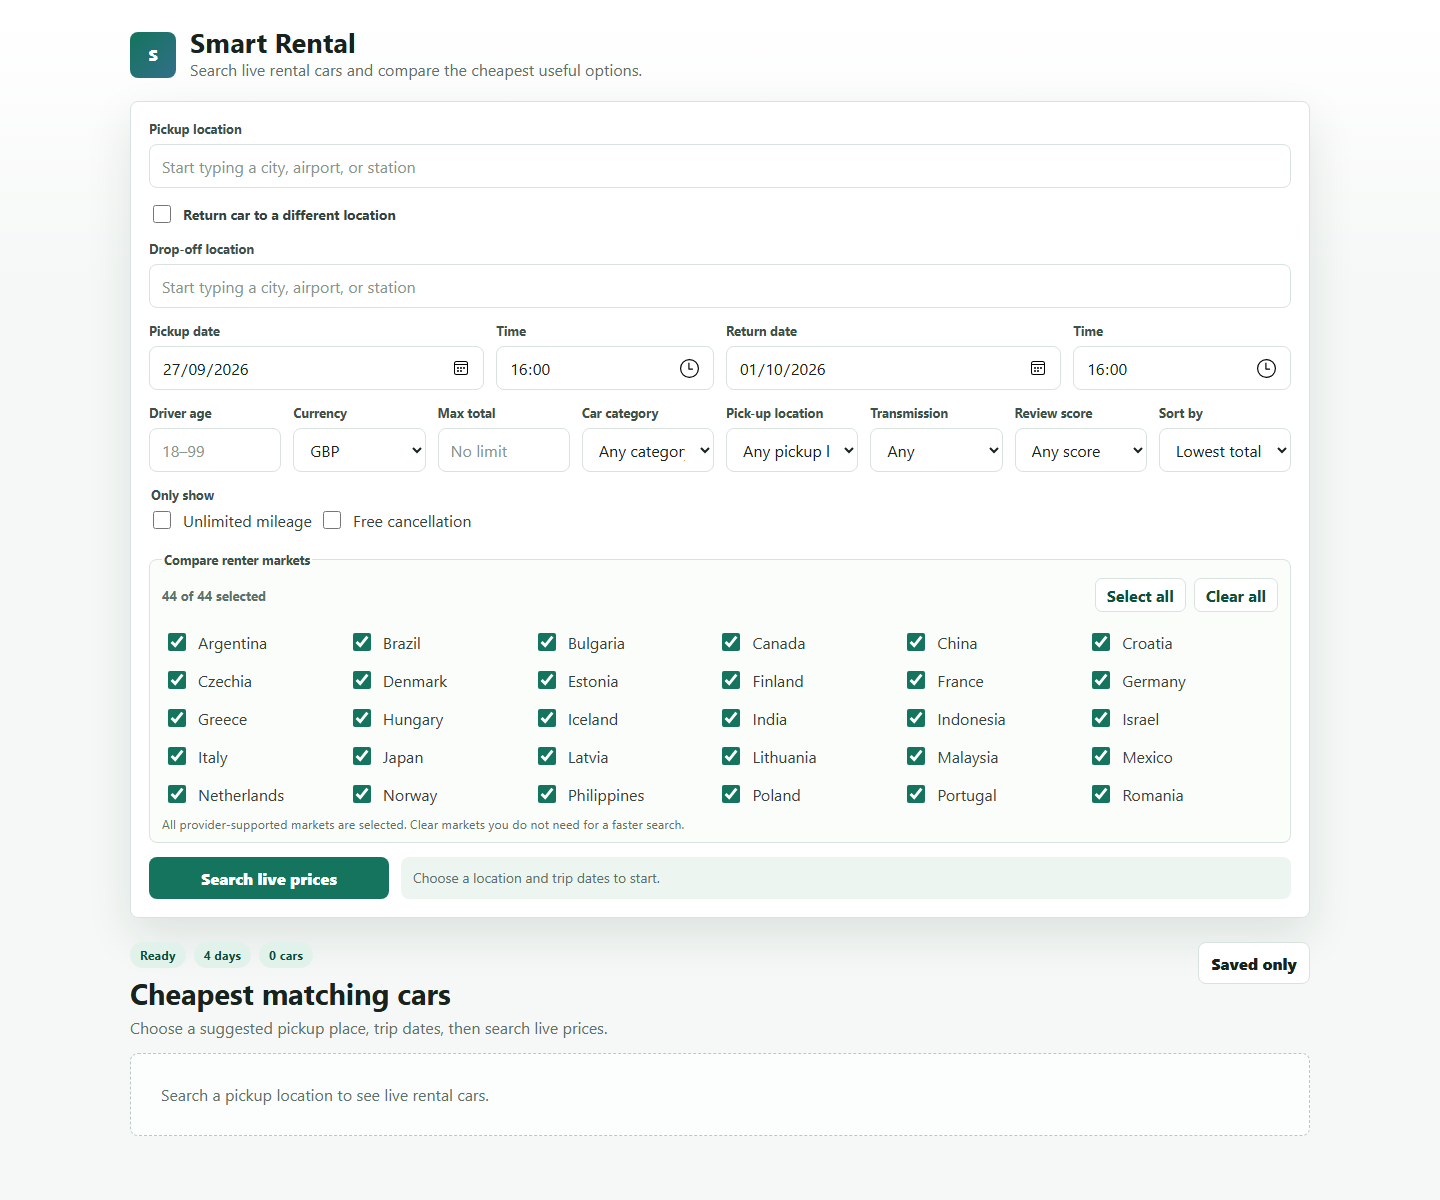
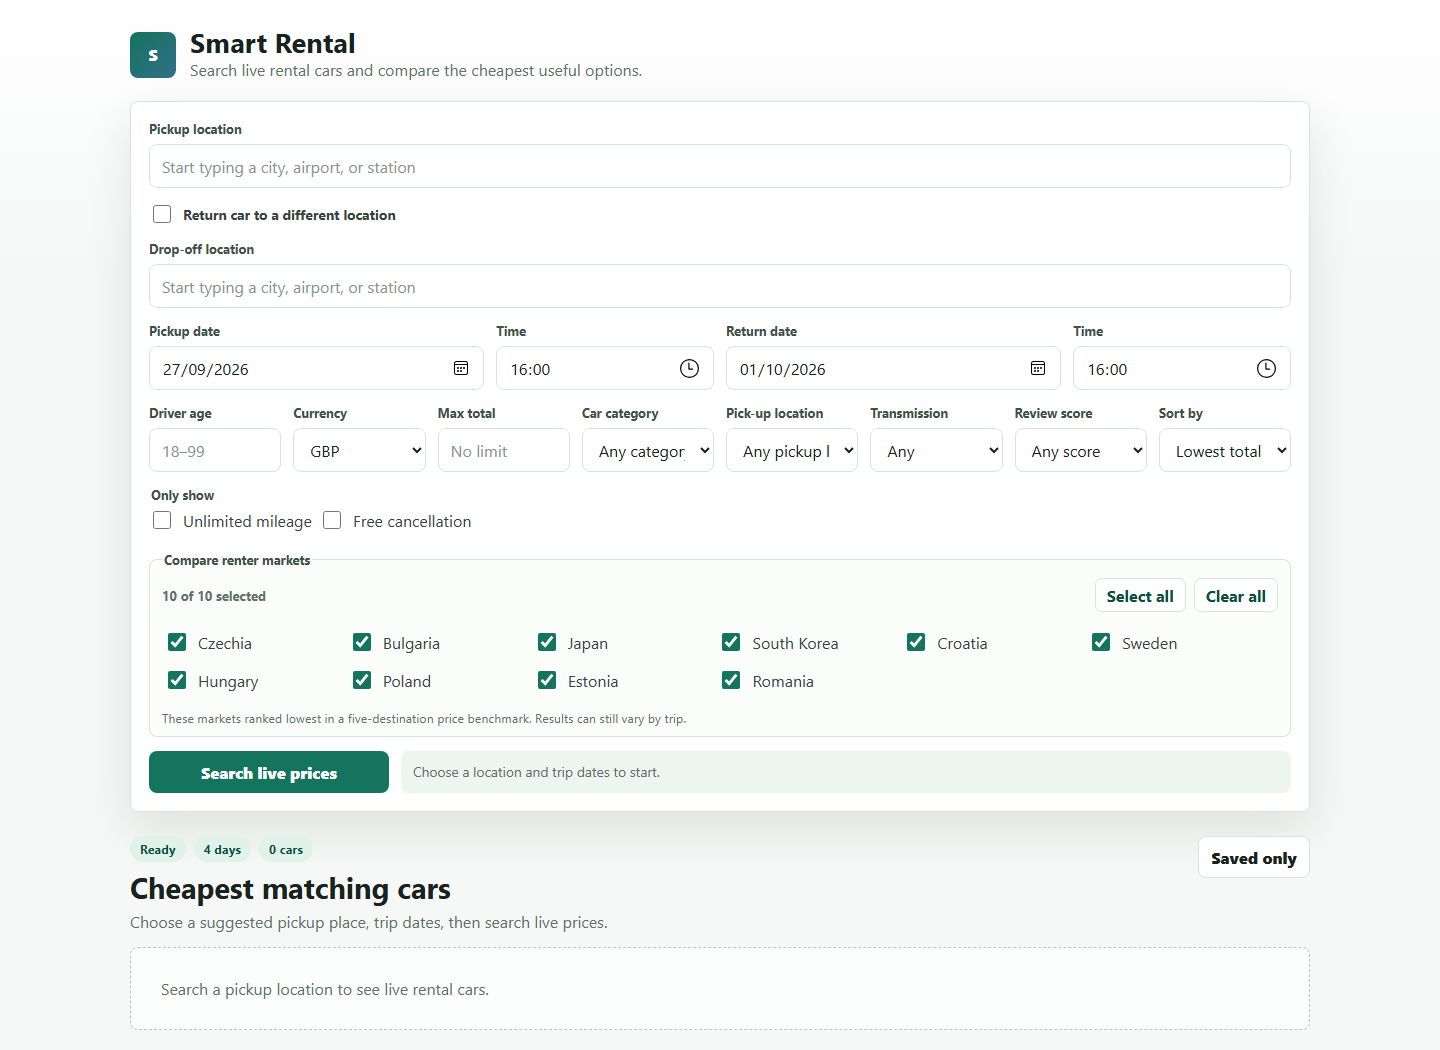
Keep the ten cheapest renter markets

diff --git a/index.html b/index.html
@@ -153,57 +153,23 @@
           <fieldset class="country-group">
             <legend>Compare renter markets</legend>
             <div class="market-toolbar">
-              <span id="marketSelectionCount">44 of 44 selected</span>
+              <span id="marketSelectionCount">10 of 10 selected</span>
               <button id="selectAllMarketsButton" class="market-action" type="button">Select all</button>
               <button id="clearAllMarketsButton" class="market-action" type="button">Clear all</button>
             </div>
             <div class="country-options">
-              <label><input class="countryInput" type="checkbox" value="ar" checked> Argentina</label>
-              <label><input class="countryInput" type="checkbox" value="br" checked> Brazil</label>
-              <label><input class="countryInput" type="checkbox" value="bg" checked> Bulgaria</label>
-              <label><input class="countryInput" type="checkbox" value="ca" checked> Canada</label>
-              <label><input class="countryInput" type="checkbox" value="cn" checked> China</label>
-              <label><input class="countryInput" type="checkbox" value="hr" checked> Croatia</label>
               <label><input class="countryInput" type="checkbox" value="cz" checked> Czechia</label>
-              <label><input class="countryInput" type="checkbox" value="dk" checked> Denmark</label>
-              <label><input class="countryInput" type="checkbox" value="ee" checked> Estonia</label>
-              <label><input class="countryInput" type="checkbox" value="fi" checked> Finland</label>
-              <label><input class="countryInput" type="checkbox" value="fr" checked> France</label>
-              <label><input class="countryInput" type="checkbox" value="de" checked> Germany</label>
-              <label><input class="countryInput" type="checkbox" value="gr" checked> Greece</label>
-              <label><input class="countryInput" type="checkbox" value="hu" checked> Hungary</label>
-              <label><input class="countryInput" type="checkbox" value="is" checked> Iceland</label>
-              <label><input class="countryInput" type="checkbox" value="in" checked> India</label>
-              <label><input class="countryInput" type="checkbox" value="id" checked> Indonesia</label>
-              <label><input class="countryInput" type="checkbox" value="il" checked> Israel</label>
-              <label><input class="countryInput" type="checkbox" value="it" checked> Italy</label>
+              <label><input class="countryInput" type="checkbox" value="bg" checked> Bulgaria</label>
               <label><input class="countryInput" type="checkbox" value="jp" checked> Japan</label>
-              <label><input class="countryInput" type="checkbox" value="lv" checked> Latvia</label>
-              <label><input class="countryInput" type="checkbox" value="lt" checked> Lithuania</label>
-              <label><input class="countryInput" type="checkbox" value="my" checked> Malaysia</label>
-              <label><input class="countryInput" type="checkbox" value="mx" checked> Mexico</label>
-              <label><input class="countryInput" type="checkbox" value="nl" checked> Netherlands</label>
-              <label><input class="countryInput" type="checkbox" value="no" checked> Norway</label>
-              <label><input class="countryInput" type="checkbox" value="ph" checked> Philippines</label>
-              <label><input class="countryInput" type="checkbox" value="pl" checked> Poland</label>
-              <label><input class="countryInput" type="checkbox" value="pt" checked> Portugal</label>
-              <label><input class="countryInput" type="checkbox" value="ro" checked> Romania</label>
-              <label><input class="countryInput" type="checkbox" value="ru" checked> Russia</label>
-              <label><input class="countryInput" type="checkbox" value="sa" checked> Saudi Arabia</label>
-              <label><input class="countryInput" type="checkbox" value="rs" checked> Serbia</label>
-              <label><input class="countryInput" type="checkbox" value="sk" checked> Slovakia</label>
-              <label><input class="countryInput" type="checkbox" value="si" checked> Slovenia</label>
               <label><input class="countryInput" type="checkbox" value="kr" checked> South Korea</label>
-              <label><input class="countryInput" type="checkbox" value="es" checked> Spain</label>
+              <label><input class="countryInput" type="checkbox" value="hr" checked> Croatia</label>
               <label><input class="countryInput" type="checkbox" value="se" checked> Sweden</label>
-              <label><input class="countryInput" type="checkbox" value="th" checked> Thailand</label>
-              <label><input class="countryInput" type="checkbox" value="tr" checked> Türkiye</label>
-              <label><input class="countryInput" type="checkbox" value="gb" checked> UK</label>
-              <label><input class="countryInput" type="checkbox" value="ua" checked> Ukraine</label>
-              <label><input class="countryInput" type="checkbox" value="us" checked> US</label>
-              <label><input class="countryInput" type="checkbox" value="vn" checked> Vietnam</label>
+              <label><input class="countryInput" type="checkbox" value="hu" checked> Hungary</label>
+              <label><input class="countryInput" type="checkbox" value="pl" checked> Poland</label>
+              <label><input class="countryInput" type="checkbox" value="ee" checked> Estonia</label>
+              <label><input class="countryInput" type="checkbox" value="ro" checked> Romania</label>
             </div>
-            <p class="market-note">All provider-supported markets are selected. Clear markets you do not need for a faster search.</p>
+            <p class="market-note">These markets ranked lowest in a five-destination price benchmark. Results can still vary by trip.</p>
           </fieldset>
 
           <div class="search-actions">

diff --git a/app.js b/app.js
@@ -40,7 +40,7 @@ const elements = {
   detailClose: document.querySelector("#detailCloseButton")
 };
 
-const maxRenterMarkets = 44;
+const maxRenterMarkets = 10;
 
 const state = {
   cars: [],
@@ -760,49 +760,17 @@ function formatCountry(value) {
   const labels = {
     uk: "UK",
     gb: "UK",
-    us: "US",
-    ar: "Argentina",
     bg: "Bulgaria",
-    br: "Brazil",
-    ca: "Canada",
-    cn: "China",
     cz: "Czechia",
-    de: "Germany",
-    dk: "Denmark",
     ee: "Estonia",
-    fi: "Finland",
-    fr: "France",
-    gr: "Greece",
     hr: "Croatia",
     hu: "Hungary",
-    id: "Indonesia",
-    il: "Israel",
-    in: "India",
-    is: "Iceland",
-    it: "Italy",
     jp: "Japan",
     kr: "South Korea",
-    lt: "Lithuania",
-    lv: "Latvia",
-    mx: "Mexico",
-    my: "Malaysia",
-    nl: "Netherlands",
-    no: "Norway",
-    ph: "Philippines",
     pl: "Poland",
-    pt: "Portugal",
     ro: "Romania",
-    rs: "Serbia",
-    ru: "Russia",
-    sa: "Saudi Arabia",
     se: "Sweden",
-    si: "Slovenia",
-    sk: "Slovakia",
-    es: "Spain",
-    th: "Thailand",
-    tr: "Türkiye",
-    ua: "Ukraine",
-    vn: "Vietnam"
+    us: "US"
   };
 
   return labels[String(value || "").toLowerCase()] || String(value || "").toUpperCase() || "Default";

diff --git a/server.test.js b/server.test.js
@@ -100,10 +100,7 @@ test("serves the app and validates search requests locally", async (context) => 
   }
   assert.match(pageHtml, /id="driverAgeInput"[^>]*required/);
   const renterMarkets = [
-    "ar", "br", "bg", "ca", "cn", "hr", "cz", "dk", "ee", "fi", "fr",
-    "de", "gr", "hu", "is", "in", "id", "il", "it", "jp", "lv", "lt",
-    "my", "mx", "nl", "no", "ph", "pl", "pt", "ro", "ru", "sa", "rs",
-    "sk", "si", "kr", "es", "se", "th", "tr", "gb", "ua", "us", "vn"
+    "cz", "bg", "jp", "kr", "hr", "se", "hu", "pl", "ee", "ro"
   ];
   assert.equal((pageHtml.match(/class="countryInput"[^>]*checked/g) || []).length, renterMarkets.length);
   for (const market of renterMarkets) {

diff --git a/server.js b/server.js
@@ -14,7 +14,7 @@ export {
 
 const root = resolve(fileURLToPath(new URL(".", import.meta.url)));
 const maxOffersPerMarket = 500;
-const maxRenterMarkets = 44;
+const maxRenterMarkets = 10;
 const maxConcurrentMarketRequests = 6;
 const quoteLifetimeMs = 30 * 60 * 1000;
 const maxCachedQuotes = 2000;

diff --git a/README.md b/README.md
@@ -82,8 +82,8 @@ Every adapter supplies its own configuration check, location search, pickup reso
 ## Notes
 
 - Keep the display currency fixed when comparing countries; otherwise exchange-rate changes can look like market-price changes.
-- All 44 available renter markets and GBP are selected by default; users can quickly select all markets or remove the ones they do not want to compare.
-- Broad searches are limited to six simultaneous provider requests so adding more markets does not create an uncontrolled request burst.
+- Ten renter markets are selected by default: Czechia, Bulgaria, Japan, South Korea, Croatia, Sweden, Hungary, Poland, Estonia, and Romania. They ranked lowest in a five-destination benchmark of equivalent rentals; the cheapest market for an individual trip can still vary.
+- Searches are limited to six simultaneous provider requests so comparisons do not create an uncontrolled request burst.
 - Driver age is required and must be an exact whole number from 18 to 99 because it can change eligibility and pricing.
 - The provider is an unofficial API that reproduces public Booking.com data. Treat its schema and availability as third-party dependencies and keep fixture tests for the fields the app consumes.
 - Provider calls may consume RapidAPI quota. A search makes one call per selected renter market; the first detail view for a result makes three additional calls. Quote details are cached for 30 minutes.
